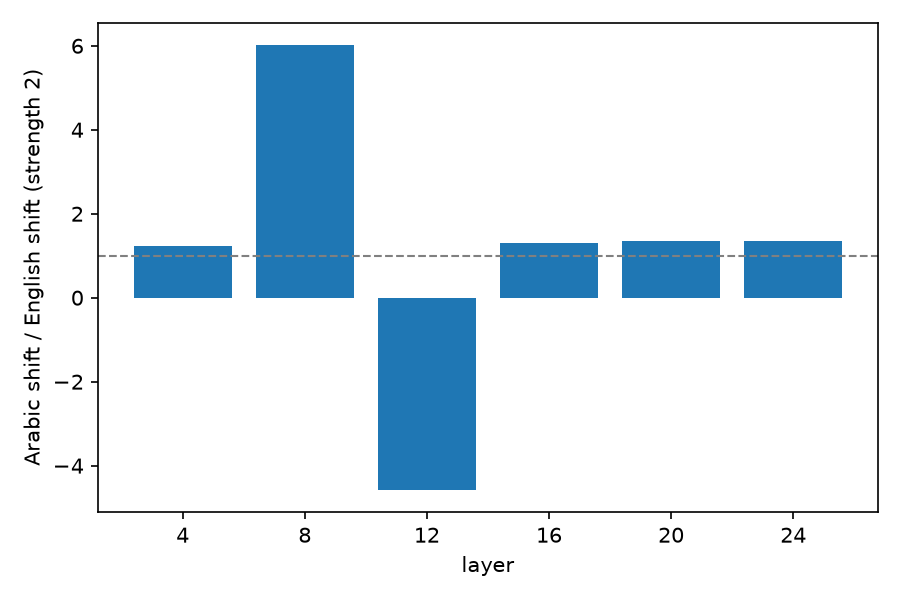
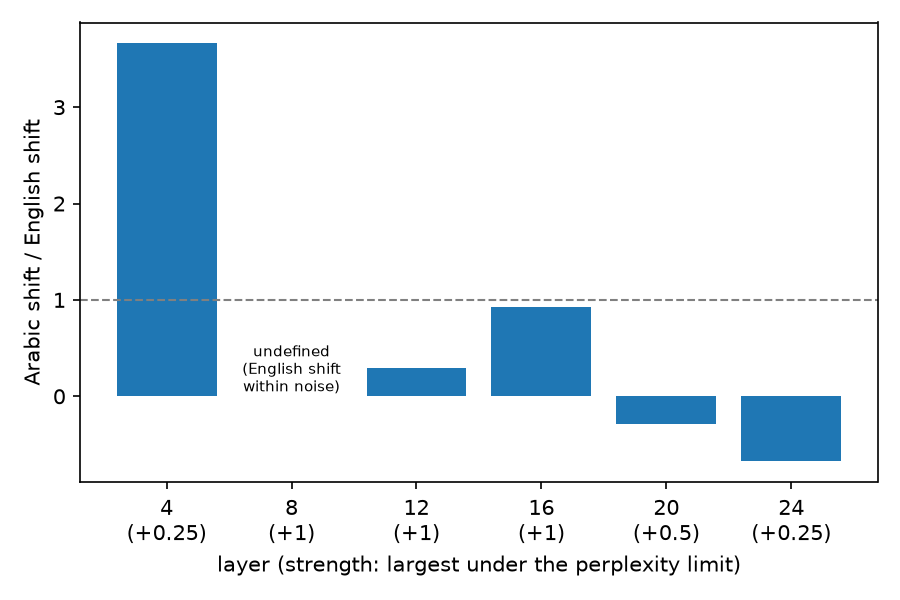
Figures 2 and 5 at the strength under the kill line's 2x perplexity; symlog figure 3
Founder decision, 17 Oct 2026. The 2.0 is a named constant in plots.py, not a config
key, so src/config.py and the fingerprint are unchanged.

Claude-Session: https://claude.ai/code/session_015Df74LdMLGXmB9sMjbcHKd

Changed region(s): [[0.0311, 0.06, 0.9644, 0.96], [0.0933, 0.03, 0.1244, 0.06], [0.0622, 0.06, 0.0933, 0.09]]

diff --git a/src/plots.py b/src/plots.py
@@ -6,6 +6,7 @@ src.config (which needs torch) is not required.
 """
 
 import argparse
+import math
 import sys
 from collections.abc import Callable, Sequence
 from pathlib import Path
@@ -31,6 +32,9 @@ NOISE_FLOOR_LABEL = "noise floor (std at strength 0)"
 LANGS = ("en", "ar")
 PROMPT_METHODS = ("prompt_pos_system", "prompt_neg_system", "prompt_pos_user", "prompt_neg_user")
 BASELINE_METHODS = ("steering", "random", *PROMPT_METHODS)
+# The kill line's own limit (RULES.md): perplexity under 2x baseline. Not a tunable setting, so it
+# is not in config.yaml; figures 2 and 5 use it to pick a strength (founder decision, 17 Oct 2026).
+KILL_LINE_PERPLEXITY_RATIO = 2.0
 
 
 def _config() -> dict[str, Any]:
@@ -77,6 +81,17 @@ def _mean_by(df: pd.DataFrame, by: list[str], column: str = SENTIMENT) -> pd.Ser
     return df.groupby(by)[column].mean()
 
 
+def usable_strength(df: pd.DataFrame, layer: int, ratio: float = KILL_LINE_PERPLEXITY_RATIO) -> float:
+    """Largest positive strength at this layer whose English perplexity is under `ratio` x strength 0.
+
+    NaN when no positive strength qualifies.
+    """
+    sent = _sentiment(df)
+    ppl = sent[(sent["layer"] == layer) & (sent["lang"] == "en")].groupby("strength")["perplexity"].mean()
+    usable = ppl[(ppl.index > 0) & (ppl < ratio * ppl.loc[0.0])]
+    return float(usable.index.max()) if len(usable) else float("nan")
+
+
 def dose_response(df: pd.DataFrame) -> Figure:
     sent = _sentiment(df)
     fig, axes = plt.subplots(len(SCORERS), 2, figsize=(10, 7), sharey=True, sharex=True, squeeze=False)
@@ -100,18 +115,22 @@ def dose_response(df: pd.DataFrame) -> Figure:
 
 
 def transfer_table(df: pd.DataFrame) -> pd.DataFrame:
-    """Per layer: shift at the largest strength, minus strength 0, in each language.
+    """Per layer: shift at the usable strength, minus strength 0, in each language.
 
-    The ratio is Arabic shift over English shift; it is NaN when the English shift is not
-    larger than the English noise floor.
+    The usable strength is the largest one under the perplexity limit (`usable_strength`).
+    The ratio is Arabic shift over English shift; it is NaN when no strength is usable or the
+    English shift is not larger than the English noise floor.
     """
     sent = _sentiment(df)
-    top = float(sent["strength"].max())
     mean = _mean_by(sent, ["layer", "lang", "strength"])
+    floor_en = noise_floor(df, "en")
     rows = []
     for layer in sorted(sent["layer"].dropna().unique()):
-        shift = {lang: float(mean[(layer, lang, top)] - mean[(layer, lang, 0.0)]) for lang in LANGS}
-        floor_en = noise_floor(df, "en")
+        top = usable_strength(df, int(layer))
+        if math.isnan(top):
+            shift = {lang: float("nan") for lang in LANGS}
+        else:
+            shift = {lang: float(mean[(layer, lang, top)] - mean[(layer, lang, 0.0)]) for lang in LANGS}
         ratio = shift["ar"] / shift["en"] if abs(shift["en"]) > floor_en else float("nan")
         rows.append(
             {"layer": int(layer), "strength": top, "shift_en": shift["en"], "shift_ar": shift["ar"],
@@ -129,10 +148,14 @@ def transfer_ratio(df: pd.DataFrame) -> Figure:
     for i, ratio in enumerate(table["ratio"]):
         if pd.isna(ratio):
             ax.text(i, 0, "undefined\n(English shift\nwithin noise)", ha="center", va="bottom", fontsize=7)
-    ax.set_xticks(x, table["layer"].astype(str))
+    ticks = [
+        f"{layer}\n(none)" if pd.isna(s) else f"{layer}\n({s:+g})"
+        for layer, s in zip(table["layer"], table["strength"], strict=True)
+    ]
+    ax.set_xticks(x, ticks)
     ax.axhline(1.0, color="grey", linestyle="--", linewidth=1)
-    ax.set_xlabel("layer")
-    ax.set_ylabel(f"Arabic shift / English shift (strength {table['strength'].iloc[0]:g})")
+    ax.set_xlabel("layer (strength: largest under the perplexity limit)")
+    ax.set_ylabel("Arabic shift / English shift")
     fig.tight_layout()
     return fig
 
@@ -147,7 +170,9 @@ def trade_off(df: pd.DataFrame) -> Figure:
             ax.plot(m["perplexity"] - m.loc[0.0, "perplexity"], m[SENTIMENT] - m.loc[0.0, SENTIMENT],
                     marker="o", label=f"layer {int(layer)}")  # fmt: skip
         ax.set_title(lang)
-        ax.set_xlabel("perplexity increase over strength 0")
+        # A few broken cells reach perplexity in the millions; symlog keeps the usable window visible.
+        ax.set_xscale("symlog", linthresh=1.0)
+        ax.set_xlabel("perplexity increase over strength 0 (symlog)")
     axes[0].set_ylabel("sentiment shift over strength 0")
     axes[1].legend(fontsize=7)
     fig.tight_layout()
@@ -170,15 +195,18 @@ def split_half(df: pd.DataFrame) -> Figure:
 def baseline_table(df: pd.DataFrame, layer: int | None) -> pd.DataFrame:
     """Sentiment shift over the strength-0 mean, per language, scorer and method.
 
-    Steering and random use the largest strength. The layer is the one the random control
-    was run at unless given. Prompting rows have no layer or strength.
+    Steering and random both use the steering vector's usable strength at that layer
+    (`usable_strength`). The layer is the one the random control was run at unless given.
+    Prompting rows have no layer or strength.
     """
     if layer is None:
         rand_layers = df[df["vector_type"] == "random"]["layer"].dropna().unique()
         if len(rand_layers) != 1:
             raise ValueError(f"cannot pick the layer: random control found at {sorted(rand_layers)}; pass --layer")
         layer = int(rand_layers[0])
-    top = float(_sentiment(df)["strength"].max())
+    top = usable_strength(df, layer)
+    if math.isnan(top):
+        raise ValueError(f"no positive strength at layer {layer} is under the perplexity limit")
     rows = []
     for lang in LANGS:
         sent = _sentiment(df)
@@ -195,7 +223,7 @@ def baseline_table(df: pd.DataFrame, layer: int | None) -> pd.DataFrame:
                 values[method] = float(df[(df["vector_type"] == method) & (df["lang"] == lang)][column].mean())
             for method in BASELINE_METHODS:
                 rows.append({"lang": lang, "scorer": scorer, "method": method, "shift": values[method] - base,
-                             "noise": floor, "layer": layer})  # fmt: skip
+                             "noise": floor, "layer": layer, "strength": top})  # fmt: skip
     return pd.DataFrame(rows)
 
 
@@ -212,7 +240,7 @@ def steering_vs_baselines(df: pd.DataFrame, layer: int | None = None) -> Figure:
                    capsize=3, label=f"scorer {scorer}")  # fmt: skip
         ax.set_xticks(x, list(BASELINE_METHODS))
         ax.axhline(0.0, color="black", linewidth=0.8)
-        ax.set_title(f"{lang}, layer {int(sub['layer'].iloc[0])}")
+        ax.set_title(f"{lang}, layer {int(sub['layer'].iloc[0])}, strength {sub['strength'].iloc[0]:+g}")
         ax.tick_params(axis="x", labelrotation=30)
     axes[0].set_ylabel("sentiment shift over strength 0 (bars: noise floor)")
     axes[1].legend(fontsize=7)

diff --git a/tests/test_plots.py b/tests/test_plots.py
@@ -220,6 +220,55 @@ def test_fingerprint_argument_and_cli_option_choose_one(tmp_path: Path, monkeypa
     assert len(list(out.glob("*.png"))) == 5
 
 
+def with_broken_top_strength(df: pd.DataFrame) -> pd.DataFrame:
+    """Add strength 2 rows whose perplexity is past 2x baseline and whose sentiment is extreme."""
+    top = df[df["vector_type"].isin(["sentiment", "random"]) & (df["strength"] == 1.0)].copy()
+    top["strength"] = 2.0
+    top["perplexity"] = 100.0
+    top["sentiment_a_mean"] = -0.9
+    top["sentiment_b_mean"] = -0.9
+    return pd.concat([df, top], ignore_index=True)
+
+
+def test_usable_strength_is_largest_under_the_perplexity_limit(
+    tmp_path: Path, monkeypatch: pytest.MonkeyPatch
+) -> None:
+    plots = load_plots(monkeypatch)
+    df = with_broken_top_strength(plots.read_results(write_csv(tmp_path)))
+    # Baseline perplexity 10; strength 1 gives 13 (under 2x), strength 2 gives 100.
+    assert plots.usable_strength(df, layer=4) == 1.0
+    df.loc[(df["layer"] == 4) & (df["strength"] == 1.0) & (df["lang"] == "en"), "perplexity"] = 25.0
+    assert math.isnan(plots.usable_strength(df, layer=4))  # no positive strength left under 2x
+
+
+def test_transfer_ratio_ignores_strengths_past_the_perplexity_limit(
+    tmp_path: Path, monkeypatch: pytest.MonkeyPatch
+) -> None:
+    plots = load_plots(monkeypatch)
+    df = with_broken_top_strength(plots.read_results(write_csv(tmp_path)))
+    table = plots.transfer_table(df).set_index("layer")
+    assert table.loc[4, "strength"] == 1.0
+    assert table.loc[4, "ratio"] == pytest.approx(0.2 / 0.4)
+
+
+def test_figure_five_ignores_strengths_past_the_perplexity_limit(
+    tmp_path: Path, monkeypatch: pytest.MonkeyPatch
+) -> None:
+    plots = load_plots(monkeypatch)
+    df = with_broken_top_strength(plots.read_results(write_csv(tmp_path)))
+    table = plots.baseline_table(df, layer=None)
+    en = table[(table["lang"] == "en") & (table["scorer"] == "A")].set_index("method")
+    assert en.loc["steering", "strength"] == 1.0
+    assert en.loc["steering", "shift"] == pytest.approx(0.4)
+    assert en.loc["random", "shift"] == pytest.approx(0.02)  # same strength as steering
+
+
+def test_trade_off_uses_a_symlog_perplexity_axis(tmp_path: Path, monkeypatch: pytest.MonkeyPatch) -> None:
+    plots = load_plots(monkeypatch)
+    fig = plots.trade_off(plots.read_results(write_csv(tmp_path)))
+    assert {ax.get_xscale() for ax in fig.axes} == {"symlog"}
+
+
 def test_failing_figure_does_not_stop_the_others(
     tmp_path: Path, monkeypatch: pytest.MonkeyPatch, capsys: pytest.CaptureFixture[str]
 ) -> None:

diff --git a/REPORT.md b/REPORT.md
@@ -91,7 +91,7 @@ Noise floors are A 0.04 and B 0.05. Baseline perplexity is 12.3 and Arabic share
 ### What did not work
 - No negative steering in Arabic at any strength: the language goes before the tone.
 - Strength ±2 breaks the output at every layer.
-- **Figures 2 and 5 are drawn at strength 2.** `plots.py` uses the largest strength, where every layer's output is broken, so the transfer ratios in figure 2 (from -4.6 to 6.0) mean nothing. The tables above use strengths under 2x perplexity instead. **Pending the founder's decision** on which strength these figures should use.
+- **The first draw of figures 2 and 5 used strength 2.** `plots.py` took the largest strength, where every layer's output is broken, which gave transfer ratios from -4.6 to 6.0. On the founder's decision (17 Oct 2026), they now use the kill line's 2x limit: for each layer, the largest positive strength whose English perplexity stays under 2x baseline.
 - **Time.** The sweep took 5.6 hours on the T4, against the spec's target of under 2 hours.
 
 ## Example generations (seed 0, the bread prompt in English, founder's notes for Arabic)
@@ -114,13 +114,17 @@ Noise floors are A 0.04 and B 0.05. Baseline perplexity is 12.3 and Arabic share
 
 ## Next steps (not started; each needs the founder's decision)
 - Run random directions at L16, and several random draws at L12, to test whether the pass is specific to sentiment.
-- Choose the strength for figures 2 and 5, then redraw them.
 - Run on a larger or more Arabic-capable model (Gemma 2 2B, spec §3).
 
 ## Figures
 All five figures are drawn from `results/results.csv` with `python -m src.plots --csv results/results.csv --out results/figures`.
 1. `results/figures/fig1_dose_response.png`: sentiment against strength, per layer.
-2. `results/figures/fig2_transfer_ratio.png`: Arabic shift over English shift. Drawn at strength 2; see "What did not work".
-3. `results/figures/fig3_trade_off.png`: sentiment shift against perplexity increase. A few broken cells stretch the x-axis.
+2. `results/figures/fig2_transfer_ratio.png`: Arabic shift over English shift on scorer A, at each layer's largest strength under 2x perplexity.
+   - L12 is 0.3 and L16 is 0.9 (both at +1).
+   - L4 qualifies only at +0.25, where both languages move *negative* (en -0.08, ar -0.30): output damage, not transfer.
+   - At L20 (+0.5) and L24 (+0.25) English moves +0.08 and +0.04, and Arabic stays within its 0.04 floor (-0.02, -0.03). So the negative ratios there are no transfer, not reversed transfer.
+   - L8's English shift (+0.00) is within the noise floor, while Arabic falls -0.38.
+   - Scorer B gives different ratios (L12 0.8, L16 0.6), so the ratio is not stable across scorers.
+3. `results/figures/fig3_trade_off.png`: sentiment shift against perplexity increase, on a symlog x-axis.
 4. `results/figures/fig4_split_half_stability.png`: split-half cosine per layer.
-5. `results/figures/fig5_steering_vs_baselines.png`: steering, random direction and prompting at L12. Drawn at strength 2.
+5. `results/figures/fig5_steering_vs_baselines.png`: steering, random direction and prompting at L12, strength +1, with the noise floor as error bars.

diff --git a/docs/tdd-evidence/08-plots-usable-strength.md b/docs/tdd-evidence/08-plots-usable-strength.md
@@ -1,0 +1,25 @@
+# TDD evidence: figures 2 and 5 use the strength under the kill line's perplexity limit (17 Oct 2026)
+
+Found while writing REPORT.md from the full 1.5B sweep. Figures 2 and 5 used the largest strength (+2), where every layer's output is broken (English perplexity 36 to 152,000 against a baseline of 6.0), so figure 2 showed transfer ratios from -4.6 to 6.0. The founder chose to draw, for each layer, the largest positive strength whose English perplexity is under 2x strength 0, which is the kill line's own limit in RULES.md. The founder also chose a symlog x-axis for figure 3.
+
+The 2.0 lives in `src/plots.py` as `KILL_LINE_PERPLEXITY_RATIO`, not in `config.yaml`. Adding a key to `config.yaml` means changing `src/config.py`, which the fingerprint hashes. That would stop a later T4 run from reusing the 402 existing rows. This was the founder's decision.
+
+## Red
+
+`python -m pytest -q tests/test_plots.py -k "usable or limit or symlog"`, with the new tests and the old `plots.py`:
+
+```
+FAILED tests/test_plots.py::test_usable_strength_is_largest_under_the_perplexity_limit
+FAILED tests/test_plots.py::test_transfer_ratio_ignores_strengths_past_the_perplexity_limit
+FAILED tests/test_plots.py::test_figure_five_ignores_strengths_past_the_perplexity_limit
+FAILED tests/test_plots.py::test_trade_off_uses_a_symlog_perplexity_axis - As...
+4 failed, 15 deselected in 11.14s
+```
+
+## Green
+
+```
+140 passed in 77.43s   (python -m pytest -q)
+```
+
+On `results/results.csv`, figure 2 now uses +0.25 at L4 and L24, +1 at L8, L12 and L16, and +0.5 at L20. Figure 5 uses L12 +1, where steering B is +0.27 and random B is -0.32, matching the REPORT.md table.
